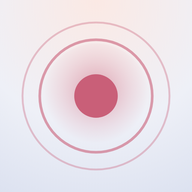
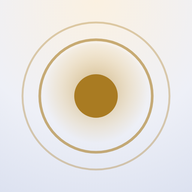
Publish book 2026-11-26 13:20 UTC

diff --git a/index.html b/index.html
@@ -3,7 +3,7 @@
 <meta name="apple-mobile-web-app-capable" content="yes">
 <meta name="apple-mobile-web-app-status-bar-style" content="default">
 <meta name="apple-mobile-web-app-title" content="Vocal Mastery">
-<meta name="theme-color" content="#fbe9e4">
+<meta name="theme-color" content="#fbf1e1">
 <link rel="apple-touch-icon" href="icon-180.png">
 <link rel="manifest" href="manifest.webmanifest">
 <style>/* fonts inlined for offline use — regenerate via pwa/inline_fonts.py --fetch */
@@ -13,16 +13,16 @@
 </style>
 <style>
 /* ================================================================ Breath: the rebuilt book's look (look A in docs/superpowers/specs/2026-11-25-vocal-directions.html)
-   Dawn air by default, Dusk at night, the rose accent in both. The token names keep the old book's (--rust, --sage, --panel …)
+   Dawn air by default, Dusk at night, the gold accent in both (pink until 26 Nov; the token is still named --rose). The token names keep the old book's (--rust, --sage, --panel …)
    so the reused sketch.css, reading.js and qbank.js pick up the new colours without edits. Off notes are amber, never red. */
 :root{   /* Dawn */
-  --bg:#fbe9e4; --bg2:#e3e8f3; --grad:radial-gradient(120% 90% at 50% 0%,#fbe9e4 0%,#eef0f7 55%,#e3e8f3 100%);
+  --bg:#fbf1e1; --bg2:#e3e8f3; --grad:radial-gradient(120% 90% at 50% 0%,#fbf1e1 0%,#f0f0f3 55%,#e3e8f3 100%);
   --panel:rgba(255,255,255,.6); --panel2:#e9ecf6; --glass:rgba(255,255,255,.55);
   --ink:#2b2e4a; --ink2:#454a6b; --mute:#6b6f8c; --rule:rgba(43,46,74,.16);
-  --rose:#c95f78; --rust:var(--rose); --acc:var(--rose); --gold:#c8913a;
+  --rose:#a97b22; --rust:var(--rose); --acc:var(--rose); --gold:#8a5a8f;   /* --rose is the accent (gold); --gold is the highlight (plum) */
   --teal:#3f8a87; --sage:#5f9a7c; --plum:#8a5a8f; --navy:#45588a;
-  --ok:#5f9a7c; --warn:#d49a3a; --bad:#d49a3a;
-  --onacc:#ffffff; --dark:#2b2e4a; --ondark:#fbe9e4;
+  --ok:#5f9a7c; --warn:#d9772e; --bad:#d9772e;   /* amber leaning orange, so an off note never reads as the gold of your part */
+  --onacc:#2b2e4a; --dark:#2b2e4a; --ondark:#fbf1e1;
   --display:'Instrument Serif','Iowan Old Style',Georgia,serif;
   --body:'Outfit','Avenir Next','Segoe UI',system-ui,sans-serif;
   --toph:64px; --tabh:84px;
@@ -32,9 +32,9 @@
   --bg:#262446; --bg2:#3d2c48; --grad:radial-gradient(120% 90% at 50% 0%,#3d2c48 0%,#2e2a4c 50%,#1f1e3a 100%);
   --panel:rgba(255,255,255,.08); --panel2:rgba(255,255,255,.12); --glass:rgba(255,255,255,.07);
   --ink:#f1e9ef; --ink2:#d6cbdc; --mute:#a99db6; --rule:rgba(241,233,239,.16);
-  --gold:#e0ad5c; --teal:#72b8b3; --sage:#86c2a1; --plum:#c39ac8; --navy:#97a8d8;
-  --ok:#86c2a1; --warn:#e5b062; --bad:#e5b062;
-  --dark:#14132a; --ondark:#f1e9ef;
+  --rose:#e3b85c; --gold:#c39ac8; --teal:#72b8b3; --sage:#86c2a1; --plum:#c39ac8; --navy:#97a8d8;
+  --ok:#86c2a1; --warn:#f0995a; --bad:#f0995a;
+  --onacc:#1f1e3a; --dark:#14132a; --ondark:#f1e9ef;
   color-scheme:dark;
 }
 @media (max-width:700px){ :root{ --tabh:64px; } }
@@ -684,7 +684,7 @@ function theme(t) {
   if (t !== 'dawn' && t !== 'dusk') t = 'dawn';
   document.documentElement.dataset.theme = t; store.set('theme', t);
   const b = $('#themebtn'); if (b) b.innerHTML = t === 'dusk' ? ICON.sun : ICON.moon;
-  const m = $('meta[name="theme-color"]'); if (m) m.setAttribute('content', t === 'dusk' ? '#262446' : '#fbe9e4');
+  const m = $('meta[name="theme-color"]'); if (m) m.setAttribute('content', t === 'dusk' ? '#262446' : '#fbf1e1');
   return t;
 }
 const svgI = (body, fill) => `<svg width="22" height="22" viewBox="0 0 24 24" fill="${fill ? 'currentColor' : 'none'}" stroke="currentColor" stroke-width="1.7" stroke-linecap="round" stroke-linejoin="round" aria-hidden="true">${body}</svg>`;
@@ -1412,7 +1412,7 @@ function lane(host, {lo = 48, hi = 72, brk = null, seconds = 6} = {}) {
     if (dead) return;
     g.setTransform(r, 0, 0, r, 0, 0); g.clearRect(0, 0, W, H);
     const tn = now(), nowX = KW + (W - KW) * PAST, pps = (W - KW) / seconds, x = t => nowX - (tn - t) * pps, rh = rowH();
-    const rose = cssv('--rose', '#c95f78'), ink = cssv('--ink', '#2b2e4a'), rule = cssv('--rule', 'rgba(0,0,0,.15)'), mute = cssv('--mute', '#888');
+    const rose = cssv('--rose', '#a97b22'), ink = cssv('--ink', '#2b2e4a'), rule = cssv('--rule', 'rgba(0,0,0,.15)'), mute = cssv('--mute', '#888');
     // the break, a soft band across the whole lane
     if (brk) { g.fillStyle = rose; g.globalAlpha = .1; g.fillRect(KW, y(brk[1]) - rh / 2, W - KW, y(brk[0]) - y(brk[1]) + rh); g.globalAlpha = 1; }
     // a faint line on every C and on every note of the keyboard
@@ -1888,7 +1888,7 @@ function mirror(host) {
   cv.width = ov.width = W; cv.height = ov.height = H;
   const g = cv.getContext('2d'), og = ov.getContext('2d');
   const fmin = 55, fmax = 4200, yOf = f => H - Math.log(f / fmin) / Math.log(fmax / fmin) * H;
-  let pal = {}, k = 0; const tokens = () => { pal = {panel: cssv('--panel', '#fff'), hi: cssv('--gold', '#c9a24a'), mid: cssv('--rose', '#c95f78'), lo: cssv('--ink2', '#555'), rule: cssv('--rule', '#ccc'), mute: cssv('--mute', '#888')}; };
+  let pal = {}, k = 0; const tokens = () => { pal = {panel: cssv('--panel', '#fff'), hi: cssv('--gold', '#c9a24a'), mid: cssv('--rose', '#a97b22'), lo: cssv('--ink2', '#555'), rule: cssv('--rule', '#ccc'), mute: cssv('--mute', '#888')}; };
   tokens(); g.fillStyle = pal.panel; g.fillRect(0, 0, W, H);
   const dx = Math.max(1, Math.round(1.7 * r)); let raf = 0, f0 = null;
   const unsub = Mic.onFrame(fr => { f0 = fr.f; });

diff --git a/sw.js b/sw.js
@@ -1,7 +1,7 @@
 // Offline after the first visit, but always prefer the freshest copy when online.
 // The cache name is versioned per build (build_book.py replaces the version), so every publish makes a
 // new worker that takes over immediately and drops the old cache — updates land on the next reload.
-const C = 'vocal-mastery-book-20261126081123';
+const C = 'vocal-mastery-book-20261126082012';
 const FILES = ['./', 'index.html', 'manifest.webmanifest', 'icon-192.png', 'icon-512.png', 'icon-180.png', 'clips/chylandyk.mp3', 'clips/fry.mp3', 'clips/kargyraa.mp3', 'clips/kulning.mp3', 'clips/sygyt.mp3', 'clips/trill.mp3', 'clips/trillslow.mp3', 'clips/yodel.mp3'];
 
 self.addEventListener('install', e => { self.skipWaiting(); e.waitUntil(caches.open(C).then(c => c.addAll(FILES))); });
